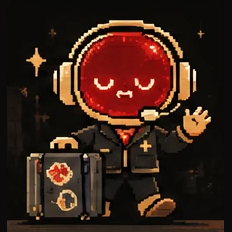
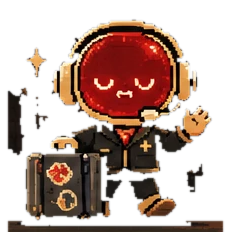
fix(keeper): sprites cut out to transparent, no plate/frame; dragging never scrolls the page; no duplicate topic chips (India/india)

diff --git a/app/components/keeper/keeperMurmur.ts b/app/components/keeper/keeperMurmur.ts
@@ -1,3 +1,4 @@
+import { foldName } from "./keeperAliases";
 import { spokenHour, titleCase, type KeeperFacts } from "./keeperFacts";
 
 /**
@@ -29,7 +30,15 @@ export function planMurmurs(facts: KeeperFacts): MurmurStep[] {
   const place = facts.city || "";
   const country = facts.station.country || "";
   const language = firstOf(facts.station.language);
-  const genre = facts.station.tags.find((tag) => tag.length > 2 && tag.length < 30) ?? null;
+  // A tag that only repeats the place, the language or the station's own name
+  // ("india" on an Indian station) is not a genre worth a fact.
+  const known = new Set(
+    [place, country, language, ...facts.station.name.split(/\s+/)].map((v) => foldName(v ?? "")),
+  );
+  const genre =
+    facts.station.tags.find(
+      (tag) => tag.length > 2 && tag.length < 30 && !known.has(foldName(tag)),
+    ) ?? null;
   if (facts.hour) steps.push({ type: "local", id: "hour" });
   if (place) steps.push({ type: "fact", kind: "place", name: place });
   if (facts.hour) steps.push({ type: "local", id: "offset" });
@@ -38,7 +47,15 @@ export function planMurmurs(facts: KeeperFacts): MurmurStep[] {
   steps.push({ type: "local", id: "stay" });
   if (genre) steps.push({ type: "fact", kind: "genre", name: genre });
   if (language) steps.push({ type: "local", id: "language" });
-  return steps;
+  // One step per name: "India" as a place and as a country is one fact.
+  const seen = new Set<string>();
+  return steps.filter((step) => {
+    if (step.type !== "fact") return true;
+    const key = foldName(step.name);
+    if (seen.has(key)) return false;
+    seen.add(key);
+    return true;
+  });
 }
 
 /** Hours the station's sun is ahead of (+) or behind (−) the listener's own. */

diff --git a/app/components/keeper/KeeperFloat.tsx b/app/components/keeper/KeeperFloat.tsx
@@ -95,10 +95,23 @@ export function KeeperFloat({ view }: { view: KeeperView }) {
   const [hopping, setHopping] = useState(false);
   const pointer = useRef<{ id: number; x: number; y: number; moved: boolean } | null>(null);
   const suppressClick = useRef(false);
+  const floatRef = useRef<HTMLDivElement>(null);
 
   useEffect(() => {
     setSpot(readSpot());
   }, []);
+
+  // Dragging the keeper must never scroll the page under the finger (that is
+  // the scrollbar that used to flash): CSS touch-action is not honoured by
+  // every iOS gesture, so also cancel touchmove on the figure itself.
+  const present = view.present;
+  useEffect(() => {
+    const node = floatRef.current;
+    if (!node) return;
+    const stop = (event: TouchEvent) => event.preventDefault();
+    node.addEventListener("touchmove", stop, { passive: false });
+    return () => node.removeEventListener("touchmove", stop);
+  }, [present, bounds]);
 
   // Keep the floor honest: the dock deck opens, the board sheet slides,
   // the phone rotates. A light poll beats wiring observers to three owners.
@@ -161,6 +174,7 @@ export function KeeperFloat({ view }: { view: KeeperView }) {
 
   return (
     <div
+      ref={floatRef}
       className="ew-keeper-float"
       data-side={resting.side}
       data-peek={peek || undefined}

diff --git a/app/styles/10-keeper.css b/app/styles/10-keeper.css
@@ -261,7 +261,9 @@
    stamp ink above). Pixel-art poses in a square foil-hairline frame; the
    sprite flaps in (stepped, like the departure board) when the state
    changes, and idles with a two-step bob. Reduced motion: still poses. */
-.ew-keeper { outline: 1px solid var(--ew-foil-line); outline-offset: -1px; background: var(--ew-ink); overflow: hidden; }
+/* The sprites are cut out (transparent); the figure stands on the page, no plate or frame. */
+.ew-keeper { background: none; }
+.ew-keeper-button:focus-visible .ew-keeper { outline: 1px solid var(--ew-foil); outline-offset: 2px; }
 .ew-keeper-sprite { display: block; width: 100%; height: 100%; object-fit: cover; user-select: none; -webkit-user-drag: none; }
 .ew-keeper-svg { display: none; }
 @media (prefers-reduced-motion: no-preference) {
